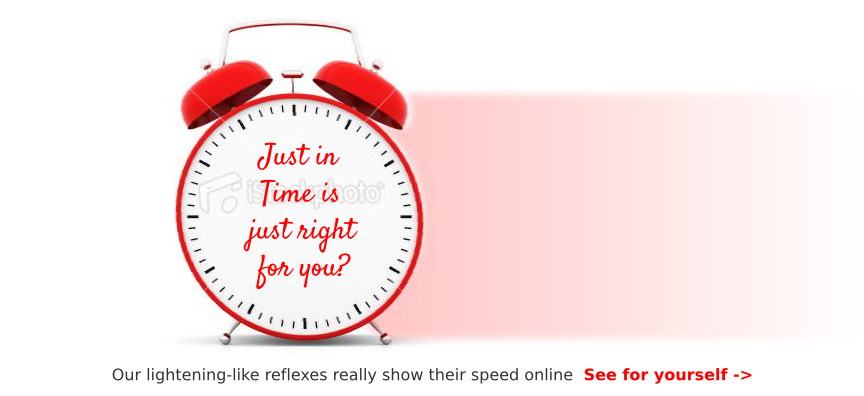
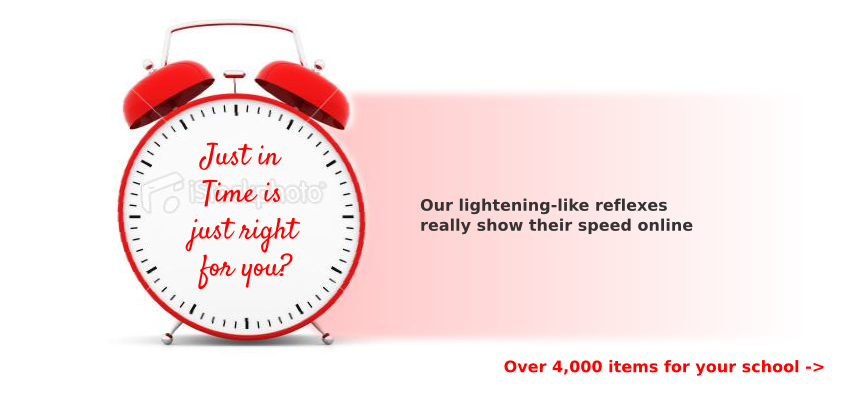
more content

Changed region(s): [[0.125, 0.1515, 0.8125, 0.8788], [0.125, 0.9091, 0.9688, 0.9697], [0.1875, 0.0303, 0.4062, 0.0909]]

diff --git a/parent/_default/slideshow/l.html b/parent/_default/slideshow/l.html
@@ -2,22 +2,22 @@
 <div class='panelBlock' style='background:url(../images/PANEL_Just_In_Time_Final.png);'>
 
 
-    <div class='aa'
+    <div class='bb'
 style='
-    left: 633px;
+    left: 420px;
     position: absolute;
-    top: 180px;
-    color:#464646;
-   ' >Our lightening-like reflexes really show their speed online</div>
+    top: 197px;
+    color:#000;
+   ' >Our lightening-like reflexes<br/>really show their speed online</div>
 
 
 <div class='bb'
 style='
-    left: 431px;
+    left: 504px;
     position: absolute;
-    top: 366px;
-    color:#F11917;
-    '>Over 4000 items for your school <a href='/supplies/online'>–></a>
+    top: 359px;
+    color:#f00;
+    '>Over 4,000 items for your school <a href='/supplies/online'>–></a>
 </div>
 
 </div>

diff --git a/parent/_default/slideshow/g.html b/parent/_default/slideshow/g.html
@@ -1,7 +1,9 @@
 <div class='panelBlock'>
 <div class='panelFirstLine'>Can't pry your students away from their computers?</div>
 <div class='panelWisecrackBlock'>
-<div class='panelWisecrack'>We have oodles of moodles</div>
+<div class='panelWisecrack'>Find your Moodle (hosted learning management systems) -></div>
+<div class='panelWisecrack'>Flip your class with Kaltura video hosting -></div>
+<div class='panelWisecrack'>Encourage your students with Engagement Plus -></div>
 </div>
-<div class='panelLastLine'>You place -> or Ours -></div>
+<div class='panelLastLine'>We make learning fun and memorable!</div>
 </div>

diff --git a/parent/_default/slideshow/n.html b/parent/_default/slideshow/n.html
@@ -1,10 +1,10 @@
 <div class='panelBlock'>
-<div class='panelFirstLine'>IEPs got you down Bunky?</div>
+<div class='panelFirstLine'>IEPs got you down?</div>
 <div class='panelWisecrackBlock'>
 <div class='panelWisecrack'>Salvation is at hand</div>
 <div class='panelWisecrack'>IEPs, Rubrics, Surveys, Follow up!</div>
 <div class='panelWisecrack'>online -></div>
 <div class='panelWisecrack'>hardcopy -></div>
 </div>
-<div class='panelLastLine'>More time for better transitions with TRAX -></div>
+<div class='panelLastLine'>More time for better outcomes with TRAX Transitions -></div>
 </div>

diff --git a/parent/_default/slideshow/e.html b/parent/_default/slideshow/e.html
@@ -1,8 +1,10 @@
 <div class='panelBlock'>
 <div class='panelFirstLine'>REPORTing for duty!</div>
 <div class='panelWisecrackBlock'>
-<div class='panelWisecrack'>UFARS, STARS, MN UI, TRA, PERA -></div>
-<div class='panelWisecrack'>AESOP, MDE, MARSS-></div>
+<div class='panelWisecrack'>MN UI, TRA, PERA -></div>
+<div class='panelWisecrack'>AESOP, MDE-></div>
+<div class='panelWisecrack'>UFARS, ST MN, TR ?????-></div>
+<div class='panelWisecrack'>941, W2, 1090-></div>
 </div>
 <div class='panelLastLine'>We will serve your alphabet soup.</div>
 </div>

diff --git a/parent/_default/slideshow/f.html b/parent/_default/slideshow/f.html
@@ -2,7 +2,7 @@
 <div class='panelFirstLine'>You got a friend!</div>
 <div class='panelWisecrackBlock'>
 <div class='panelWisecrack'>Adminstrative Solutions is here to help…</div>
-<div class='panelWisecrack'>MARSS Support -></div>
+<div class='panelWisecrack'>UFARS, STARS, MARSS Support -></div>
 <div class='panelWisecrack'>Shared accounting services -></div>
 <div class='panelWisecrack'>Charter school services -></div>
 </div>

diff --git a/parent/_default/slideshow/r.html b/parent/_default/slideshow/r.html
@@ -1,5 +1,5 @@
 <div class='panelBlock'>
-<div class='panelFirstLine'>All the information in the world is wasted if it stays on paper!</div>
+<div class='panelFirstLine'>Want to know what's going on?</div>
 <div class='panelWisecrackBlock'>
 <div class='panelWisecrack'>Deploy the collector.</div>
 <div class='panelWisecrack'>Gather those assessments</div>

diff --git a/parent/_default/slideshow/d.html b/parent/_default/slideshow/d.html
@@ -1,7 +1,7 @@
 <div class='panelBlock'>
 <div class='panelFirstLine'>We've got your back (office)!</div>
 <div class='panelWisecrackBlock'>
-<div class='panelWisecrack'>General ledger -></div>
+<div class='panelWisecrack'>K-12 Finances -></div>
 <div class='panelWisecrack'>Smart HR -></div>
 </div>
 <div class='panelLastLine'>Time Clock -></div>

diff --git a/parent/_GLOBAL/CSS/siteSpecific.css b/parent/_GLOBAL/CSS/siteSpecific.css
@@ -162,7 +162,7 @@ ul.dropdown ul li{
 
 
 .panelBlock a{
-color:blue;
+color:#666;
 padding-left:5px;
 }
 .panelBlock a:hover{
